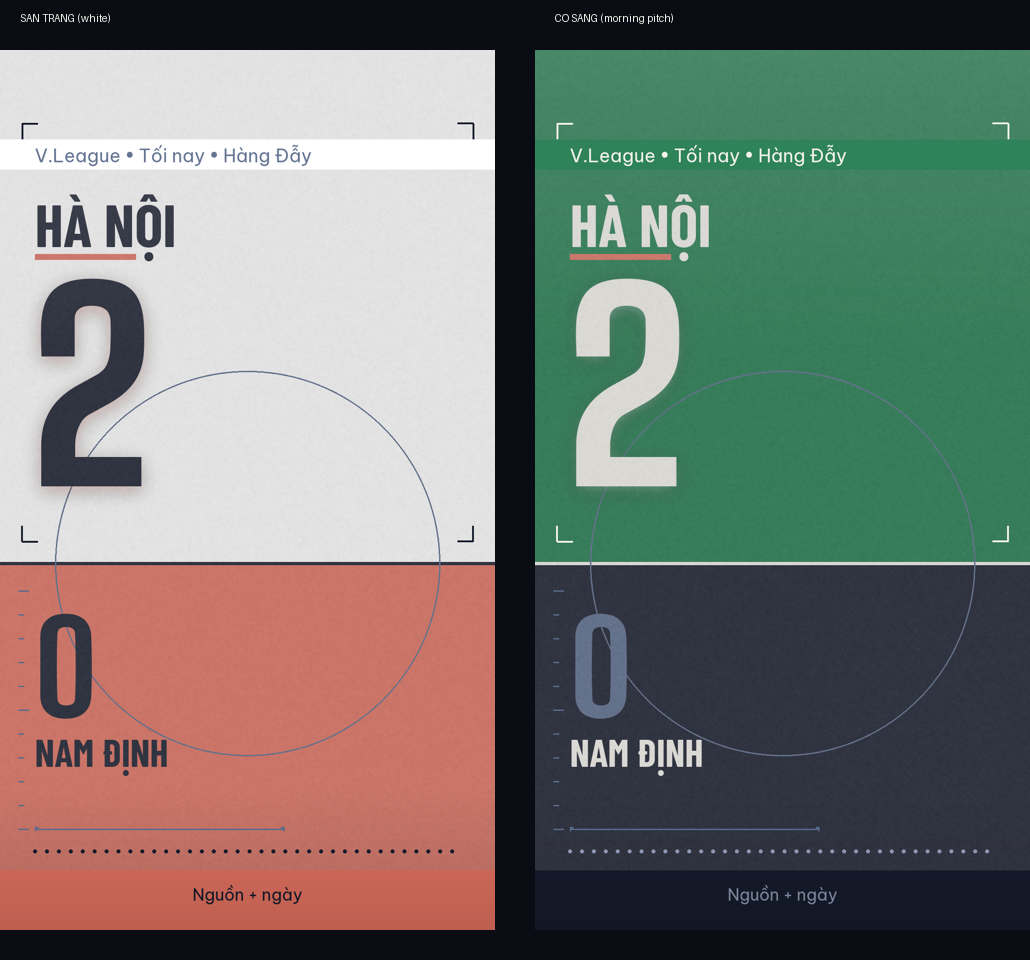
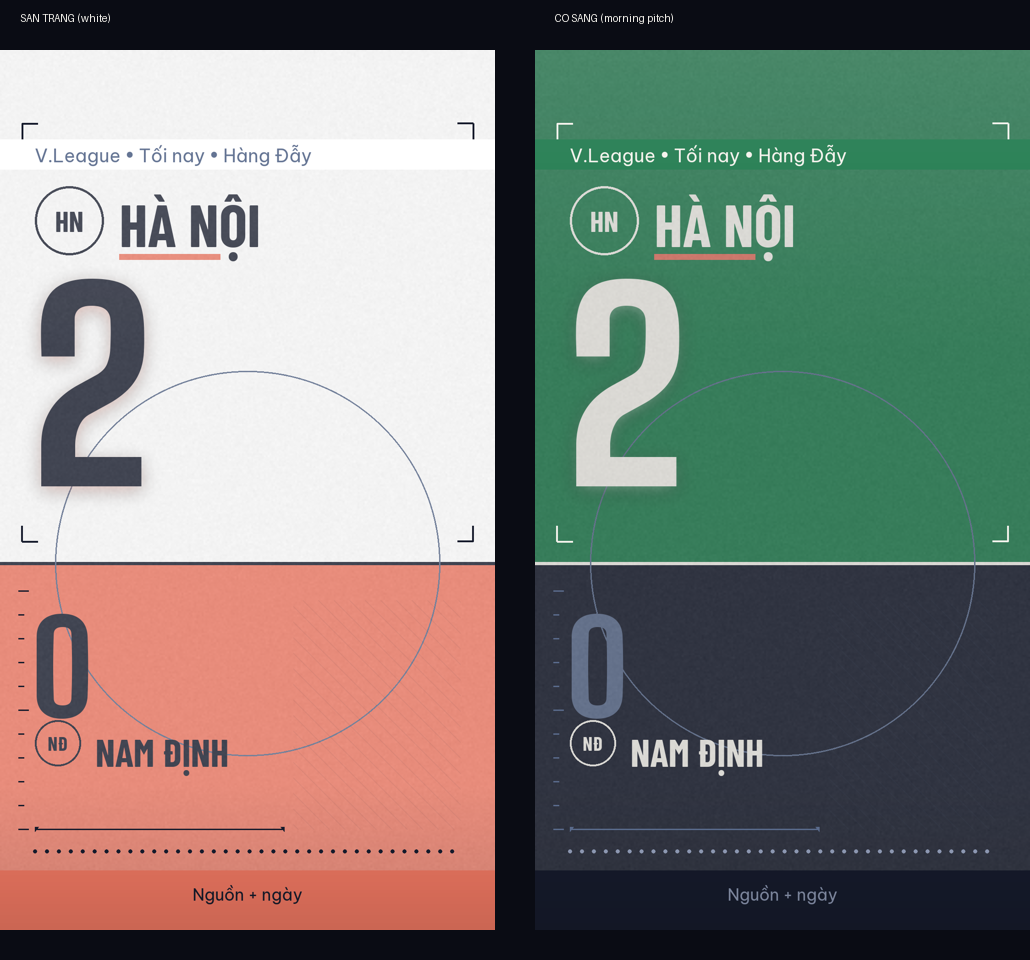
feat(design): orange loser block, badge slots, palette-aware grain
- Loser block coral -> vivid orange #F07862 (brighter, ink/orange >=4.5 locked); glow/bar follow
- Team badge slots: monogram rings derived from team names (HN/NĐ), crest-policy compliant, future library-image binding without moving slots
- Grain range palette-aware (white fields take bright grain so depth never dulls the white); detailing line color per palette
- Prototype lock updated to white/orange spec; full suite 287 passed

diff --git a/apps/studio_templates/redesign_mr02_skill.py b/apps/studio_templates/redesign_mr02_skill.py
@@ -58,19 +58,21 @@ DEFAULT_PALETTE = {
     "loser_numeral": SLATE, "loser_name": PAPER, "credit": MIST,
     "winner_bar": None,
     "haze": [(150, 90, PAPER, 14), (1330, 110, CORAL, 16)],
-    "detail_primary": INK, "detail_faint": MIST,
+    "detail_primary": INK, "detail_faint": MIST, "detail_line": SLATE,
+    "grain_lo": 86, "grain_hi": 180,
 }
 
 # theme-factory method: curated colorways as named palettes. White primary
 # per owner brief; supporting colors chosen for broadcast contrast.
 SAN_TRANG = {
-    "base": (255, 255, 255), "winner_field": (255, 255, 255), "loser_field": CORAL,
-    "winner_type": INK, "draw_type": INK, "glow": CORAL,
+    "base": (255, 255, 255), "winner_field": (255, 255, 255), "loser_field": (240, 120, 98),
+    "winner_type": INK, "draw_type": INK, "glow": (240, 120, 98),
     "rule": INK, "circle": SLATE, "context_win": SLATE, "context_draw": SLATE,
     "loser_numeral": INK, "loser_name": INK, "credit": INK,
-    "winner_bar": CORAL,
+    "winner_bar": (240, 120, 98),
     "haze": None,
-    "detail_primary": INK, "detail_faint": INK,
+    "detail_primary": INK, "detail_faint": INK, "detail_line": INK,
+    "grain_lo": 170, "grain_hi": 240,
 }
 
 CO_SANG = {
@@ -91,6 +93,29 @@ def parse_score(score: str) -> tuple[int, int]:
     if len(numbers) >= 2:
         return numbers[0], numbers[1]
     return 0, 0
+
+
+def initials(name: str) -> str:
+    """Team monogram from name initials (derived data, never invented).
+
+    Real crests are banned by the template selection rules, so the badge
+    slot ships a typographic monogram. A future library-image binding can
+    replace the monogram without moving the slot.
+    """
+    words = [w for w in re.findall(r"[A-Za-zÀ-ỹĐđ]+", name) if w]
+    return "".join(w[0].upper() for w in words[:2]) or "•"
+
+
+def badge(draw: ImageDraw.ImageDraw, cx: int, cy: int, diameter: int,
+          ring: tuple[int, int, int], ink_color: tuple[int, int, int],
+          text: str) -> None:
+    """Badge slot: ring + monogram, centered. Reserves the crest space."""
+    radius = diameter // 2
+    draw.ellipse([cx - radius, cy - radius, cx + radius, cy + radius],
+                 outline=ring, width=max(4, diameter // 28))
+    size = int(diameter * 0.42)
+    draw.text((cx, cy), text, font=font_brand("display", size),
+              fill=ink_color, anchor="mm")
 
 
 def render_redesign(home: str, away: str, score: str, comp: str, when: str,
@@ -120,10 +145,13 @@ def render_redesign(home: str, away: str, score: str, comp: str, when: str,
               fill=pal["context_win"] if draw_win else pal["context_draw"])
     # Winner: monumental numeral.
     winner_type = pal["winner_type"] if draw_win else pal["draw_type"]
-    draw.text((MARGIN, 300), top_name, font=font_brand("display", 130),
+    name_x = MARGIN + 184
+    badge(draw, MARGIN + 75, 372, 150, winner_type,
+          winner_type, initials(top_name))
+    draw.text((name_x, 300), top_name, font=font_brand("display", 130),
               fill=winner_type)
     if pal["winner_bar"] is not None:
-        draw.rectangle([MARGIN, 445, MARGIN + 220, 457], fill=pal["winner_bar"])
+        draw.rectangle([name_x, 445, name_x + 220, 457], fill=pal["winner_bar"])
     if depth and draw_win:
         # Hero glow (broadcast-depth move 2): blurred paper copy behind the
         # numeral. Paper glow, never white bloom.
@@ -138,9 +166,12 @@ def render_redesign(home: str, away: str, score: str, comp: str, when: str,
     draw.text((MARGIN - 8, 400), str(top_goals), font=font_numeral(560),
               fill=winner_type)
     # Loser territory: dimmed numeral + name anchored together.
-    draw.text((MARGIN, SPLIT_Y + 60), str(bottom_goals), font=font_numeral(280),
+    draw.text((MARGIN - 8, SPLIT_Y + 60), str(bottom_goals), font=font_numeral(280),
               fill=pal["loser_numeral"])
-    draw.text((MARGIN, SPLIT_Y + 360), bottom_name, font=font_brand("display", 84),
+    loser_name_x = MARGIN + 132
+    badge(draw, MARGIN + 50, SPLIT_Y + 392, 100, pal["loser_name"],
+          pal["loser_name"], initials(bottom_name))
+    draw.text((loser_name_x, SPLIT_Y + 360), bottom_name, font=font_brand("display", 84),
               fill=pal["loser_name"])
     draw.text((W // 2, 1820), "Nguồn + ngày", font=font_brand("body", 36),
               fill=pal["credit"], anchor="ma")
@@ -184,15 +215,17 @@ def apply_depth_pass(img: Image.Image, seed: int = 7, lite: bool = False,
             rgba.paste(band, (0, y0), band)
     # Move 3: seeded monochrome grain, masked off microcopy strips.
     # Tile small with random.Random(seed) for determinism (PIL effect_noise
-    # is unseeded), then upscale; gray clamped to 86..180 so every pixel
-    # stays inside the locked-palette ±90 audit box on any field.
+    # is unseeded), then upscale. Gray range is palette-aware: dark fields
+    # take deep grain, white fields take bright grain so the white is never
+    # dulled gray by the pass itself.
     tile_w, tile_h = 270, 480
     rng = random.Random(seed)
+    lo, hi = int(pal.get("grain_lo", 86)), int(pal.get("grain_hi", 180))
     tile = Image.new("L", (tile_w, tile_h))
     tile_px = tile.load()
     for ty in range(tile_h):
         for tx in range(tile_w):
-            tile_px[tx, ty] = min(180, max(86, int(133 + rng.gauss(0, lite_sigma))))
+            tile_px[tx, ty] = min(hi, max(lo, int((lo + hi) // 2 + rng.gauss(0, lite_sigma))))
     gray = tile.resize((W, H), Image.BILINEAR)
     strength = Image.new("L", (W, H), lite_strength)  # ~39% grain strength
     strength_draw = ImageDraw.Draw(strength)
@@ -233,17 +266,18 @@ def apply_mr02_detailing(img: Image.Image, seed: int = 21,
     pal = DEFAULT_PALETTE if palette is None else palette
     primary = pal.get("detail_primary", INK)
     faint = pal.get("detail_faint", MIST)
+    line = pal.get("detail_line", SLATE)
     work = img.convert("RGB")
     draw = ImageDraw.Draw(work)
     # Technical framing of the winner field.
     corner_marks(draw, (48, 160, 1032, 1072), primary)
     # Notched trim under the loser name zone.
-    hairline_rule(draw, MARGIN, 620, 1700, SLATE)
+    hairline_rule(draw, MARGIN, 620, 1700, line)
     # Ticket perforation above provenance.
     perforation(draw, MARGIN, W - MARGIN, 1748, faint)
     # Texture rhythm on the loser edge + air in the right void.
-    tick_ruler(draw, 40, 1180, 1700, 52, SLATE)
-    work = pinstripes(work, (640, 1200, 1004, 1700), SLATE, 14, 34, seed)
+    tick_ruler(draw, 40, 1180, 1700, 52, line)
+    work = pinstripes(work, (640, 1200, 1004, 1700), line, 14, 34, seed)
     return work
 
 

diff --git a/tests/test_design_skills.py b/tests/test_design_skills.py
@@ -30,10 +30,11 @@ def test_skills_installed_verbatim_with_licenses():
 
 def test_redesign_renders_locked_canvas():
     from apps.studio_templates.redesign_mr02_skill import (
-        W, H, parse_score, render_redesign,
+        W, H, initials, parse_score, render_redesign,
     )
     assert (W, H) == (1080, 1920)
     assert parse_score("2 - 0") == (2, 0)
+    assert initials("HÀ NỘI") == "HN" and initials("Nam Định") == "NĐ"
     home_win = render_redesign("HÀ NỘI", "NAM ĐỊNH", "2 - 0", "V.League", "Tối nay")
     assert home_win.size == (1080, 1920)
     # Winner coral field on top, ink loser field below the split.
@@ -149,15 +150,15 @@ def test_white_colorways_render_and_pass_contrast():
                             palette=COLORWAYS["co-sang"])
     assert white.size == green.size == (1080, 1920)
     assert white.getpixel((540, 100)) == (255, 255, 255)
-    assert white.getpixel((540, 1500)) == (224, 112, 95)
+    assert white.getpixel((540, 1500)) == (240, 120, 98)
     assert green.getpixel((540, 100)) == (31, 122, 77)
     assert green.getpixel((540, 1900)) == (22, 27, 44)
     ink, paper = hex_rgb("#161B2C"), hex_rgb("#F4F2EC")
     pure_white = hex_rgb("#FFFFFF")
     slate, field_green = hex_rgb("#5A6B8C"), hex_rgb("#1F7A4D")
-    coral = hex_rgb("#E0705F")
+    orange = hex_rgb("#F07862")
     assert contrast(ink, paper) >= 7.0
     assert contrast(ink, pure_white) >= 7.0
     assert contrast(slate, pure_white) >= 4.5
-    assert contrast(ink, coral) >= 4.5
+    assert contrast(ink, orange) >= 4.5
     assert contrast(paper, field_green) >= 3.0

diff --git a/docs/design/mr02-prototype-lock.md b/docs/design/mr02-prototype-lock.md
@@ -1,4 +1,4 @@
-# PROTOTYPE LOCK: MR-02 san-trang (white #FFFFFF / coral split)
+# PROTOTYPE LOCK: MR-02 san-trang (white #FFFFFF / orange #F07862 split)
 
 **Status:** APPROVED AS PROTOTYPE — rebuild toàn bộ template pack theo card này.
 **Files:** `docs/design/mr02-san-trang-proof.png` (1080×1920, render kèm
@@ -22,9 +22,13 @@ lite depth + detailing) · script `apps/studio_templates/redesign_mr02_skill.py`
 
 ## Spec rebuild toàn pack từ prototype này
 
-1. Nền trắng `#FFFFFF` dominant; khối đối lập Coral đặc (không tint nhạt).
-2. Winner = ink monumental + coral bar + coral glow; loser = ink numeral/name
-   trên coral, credit ink (ink/coral ≥4.5 đã khóa bằng test).
+1. Nền trắng `#FFFFFF` dominant; khối đối lập Orange `#F07862` (sáng hơn
+   coral cũ, ink/orange ≥4.5 đã khóa bằng test).
+2. Winner = ink monumental + orange bar/glow; loser = ink numeral/name
+   trên orange, credit ink.
+3. Badge monogram (initials derived từ tên đội, ring + chữ cùng ink) trái
+   mỗi tên đội — giữ chỗ crest thật (đang cấm theo selection rules); binding
+   ảnh library sau này thay monogram không dời slot.
 3. Context 1 dòng sentence-case slate; provenance mist y1820.
 4. Circle motif + corner marks + notched trim + perforation + ticks + pinstripes
    (detailing.py, non-data only) — liều lượng như proof.
